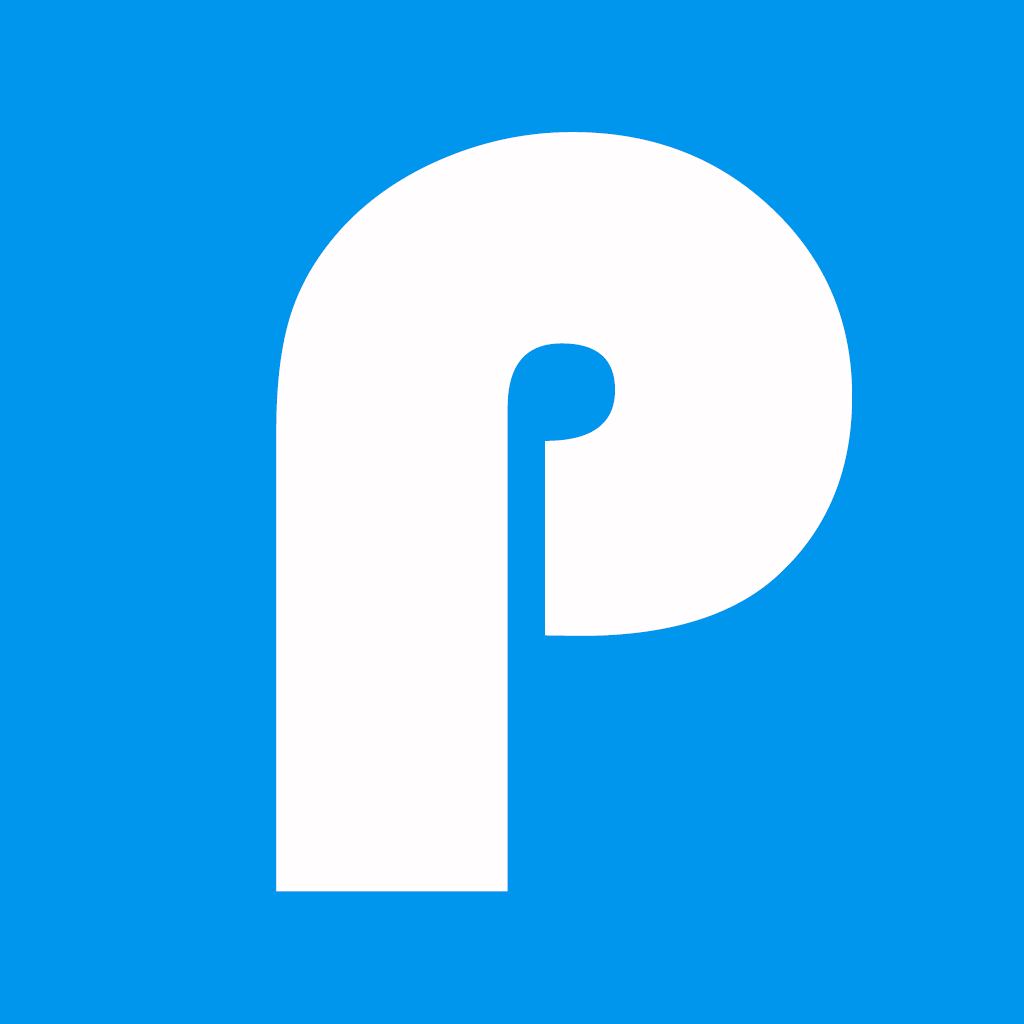
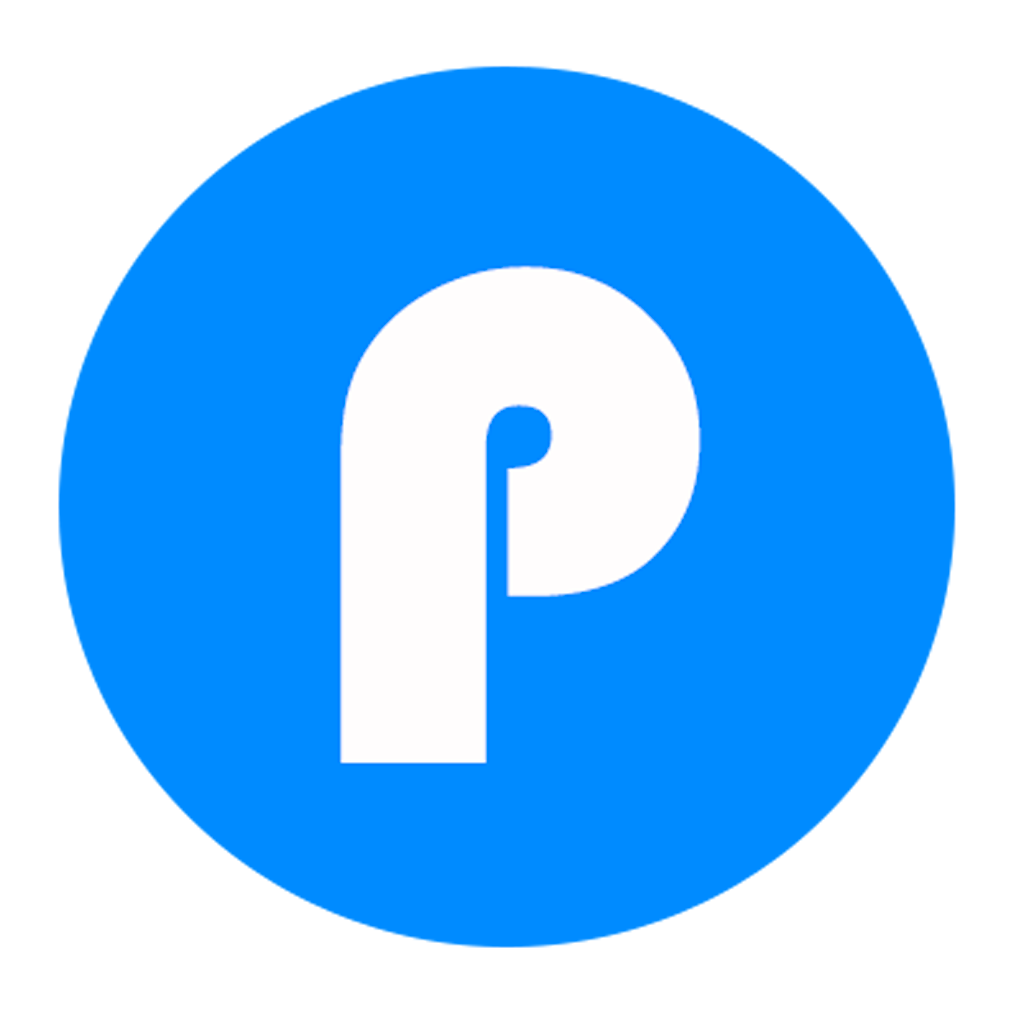
personalizacion

diff --git a/src/pages/home/home.html b/src/pages/home/home.html
@@ -1,19 +1,21 @@
 <ion-header>
-  <ion-navbar>
+  <ion-navbar color="primary">
     <ion-title>Inicio</ion-title>
   </ion-navbar>
 </ion-header>
 
 <ion-content padding>
   <div align="center">
-  <img src="https://png.icons8.com/collaboration/ultraviolet/50" title="Collaboration" width="50" height="50">
+  <img src="assets/img/logo.png" title="Collaboration" width="150" height="150">
   </div>
+  <h3 align="center">Papu.com</h3>
    <p align="center">
-    Encuentra el cuidador ideal el momento que más lo necesites
+Servicios de cuidado a domicilio
   </p>
-<h3>¿Que servicio Buscas?</h3>
-<ion-item>
-  <ion-label>Servicio</ion-label>
+  <ion-card>
+
+  <ion-item>
+  <ion-label color="primary" floating>Selecciona el Servicio</ion-label>
   <ion-select>
     <ion-option>Cuidado de Niños</ion-option>
     <ion-option>Cuidado de Adultos</ion-option>
@@ -22,50 +24,50 @@
 
   </ion-select>
 </ion-item>
+</ion-card>
 
-<h3>¿Que Día?</h3>
 <ion-card>
 <ion-card-content>
 <ion-list>
 <ion-item>
-<ion-label>
-Fecha
+<ion-label color="primary" floating>
+Eligue el día
 </ion-label>
 <ion-datetime
 displayFormat="DD/MM/YYYY" pikerFormat="YYYY MM DD" [(ngModel)]="fechaCorta" cancelText ="Cancelar" doneText="OK" min = {{minFecha}} max = {{maxFecha}}
 >
 </ion-datetime>
 </ion-item>
-<ion-item>
+<!-- <ion-item>
 <p text-center> Valor de fecha: {{fechaCorta.substr(0,10)}}</p>
-</ion-item>
+</ion-item> -->
 </ion-list>
 </ion-card-content>
 </ion-card>
 
-<h3>¿Que Hora?</h3>
+
 <ion-card>
 <ion-card-content>
 <ion-list>
 <ion-item>
-<ion-label>
-Hora
+<ion-label color="primary" floating>
+Dinos la Hora
 </ion-label>
 <ion-datetime
 displayFormat="HH:mm" pikerFormat="HH:mm" [(ngModel)]="fecha" cancelText ="Cancelar" doneText="OK"
 >
 </ion-datetime>
 </ion-item>
-<ion-item>
+<!-- <ion-item>
 <p text-center> Valor de fecha: {{fecha.substr(11,5)}}</p>
-</ion-item>
+</ion-item> -->
 </ion-list>
 </ion-card-content>
 </ion-card>
 
-<h3>¿Que zona?</h3>
+<ion-card>
 <ion-item>
-  <ion-label>Zona</ion-label>
+  <ion-label color="primary" floating>Seleccióna la Zona</ion-label>
   <ion-select>
     <ion-option>San Pedro</ion-option>
     <ion-option>Miraflores</ion-option>
@@ -77,7 +79,7 @@ displayFormat="HH:mm" pikerFormat="HH:mm" [(ngModel)]="fecha" cancelText ="Cance
 
   </ion-select>
 </ion-item>
-
-<button (click)="buscar()" ion-button full align="center">Buscar</button>
+</ion-card>
+<button (click)="buscar()" ion-button block align="center">Buscar</button>
 
   </ion-content>

diff --git a/src/theme/variables.scss b/src/theme/variables.scss
@@ -38,7 +38,8 @@ $colors: (
   secondary:  #32db64,
   danger:     #f53d3d,
   light:      #f4f4f4,
-  dark:       #222
+  dark:       #222,
+  papu: 	  #4995eb
 );
 
 

diff --git a/src/pages/about/about.html b/src/pages/about/about.html
@@ -1,5 +1,5 @@
 <ion-header>
-  <ion-navbar>
+  <ion-navbar color="primary">
     <ion-title>Servicio</ion-title>
   </ion-navbar>
 </ion-header>

diff --git a/src/pages/contact/contact.html b/src/pages/contact/contact.html
@@ -1,5 +1,5 @@
 <ion-header>
-  <ion-navbar>
+  <ion-navbar color="primary">
     <ion-title>
       Cuidadores 
     </ion-title>
